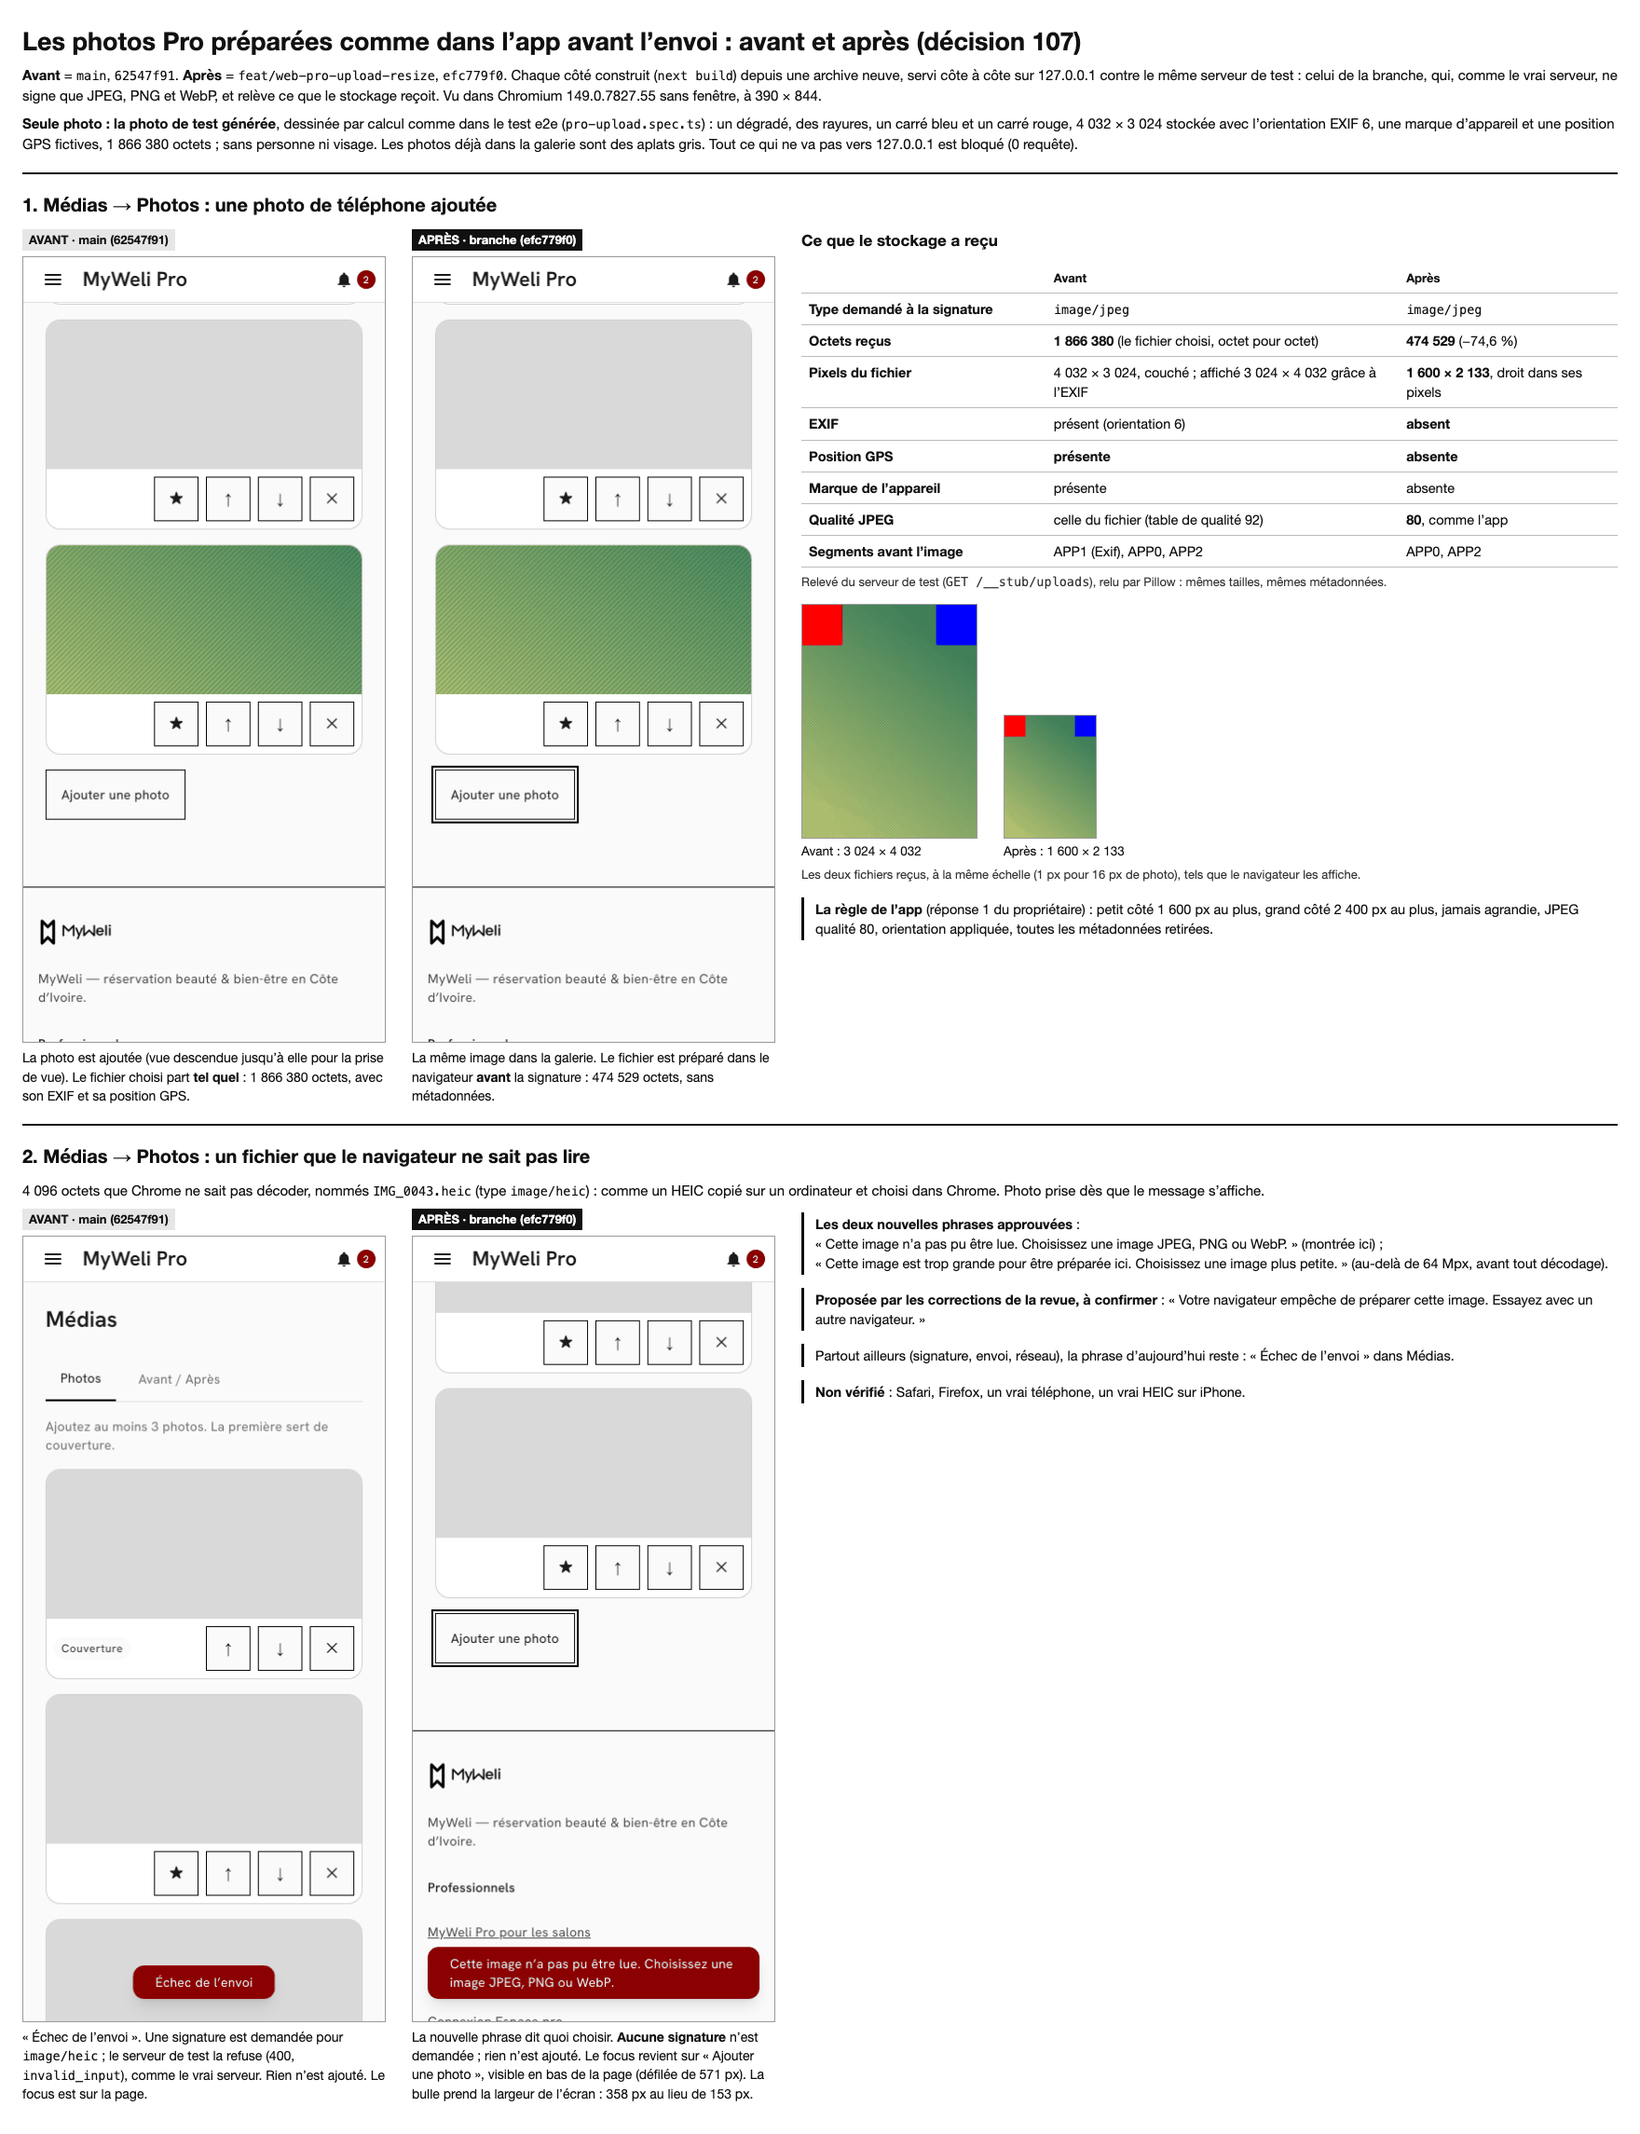
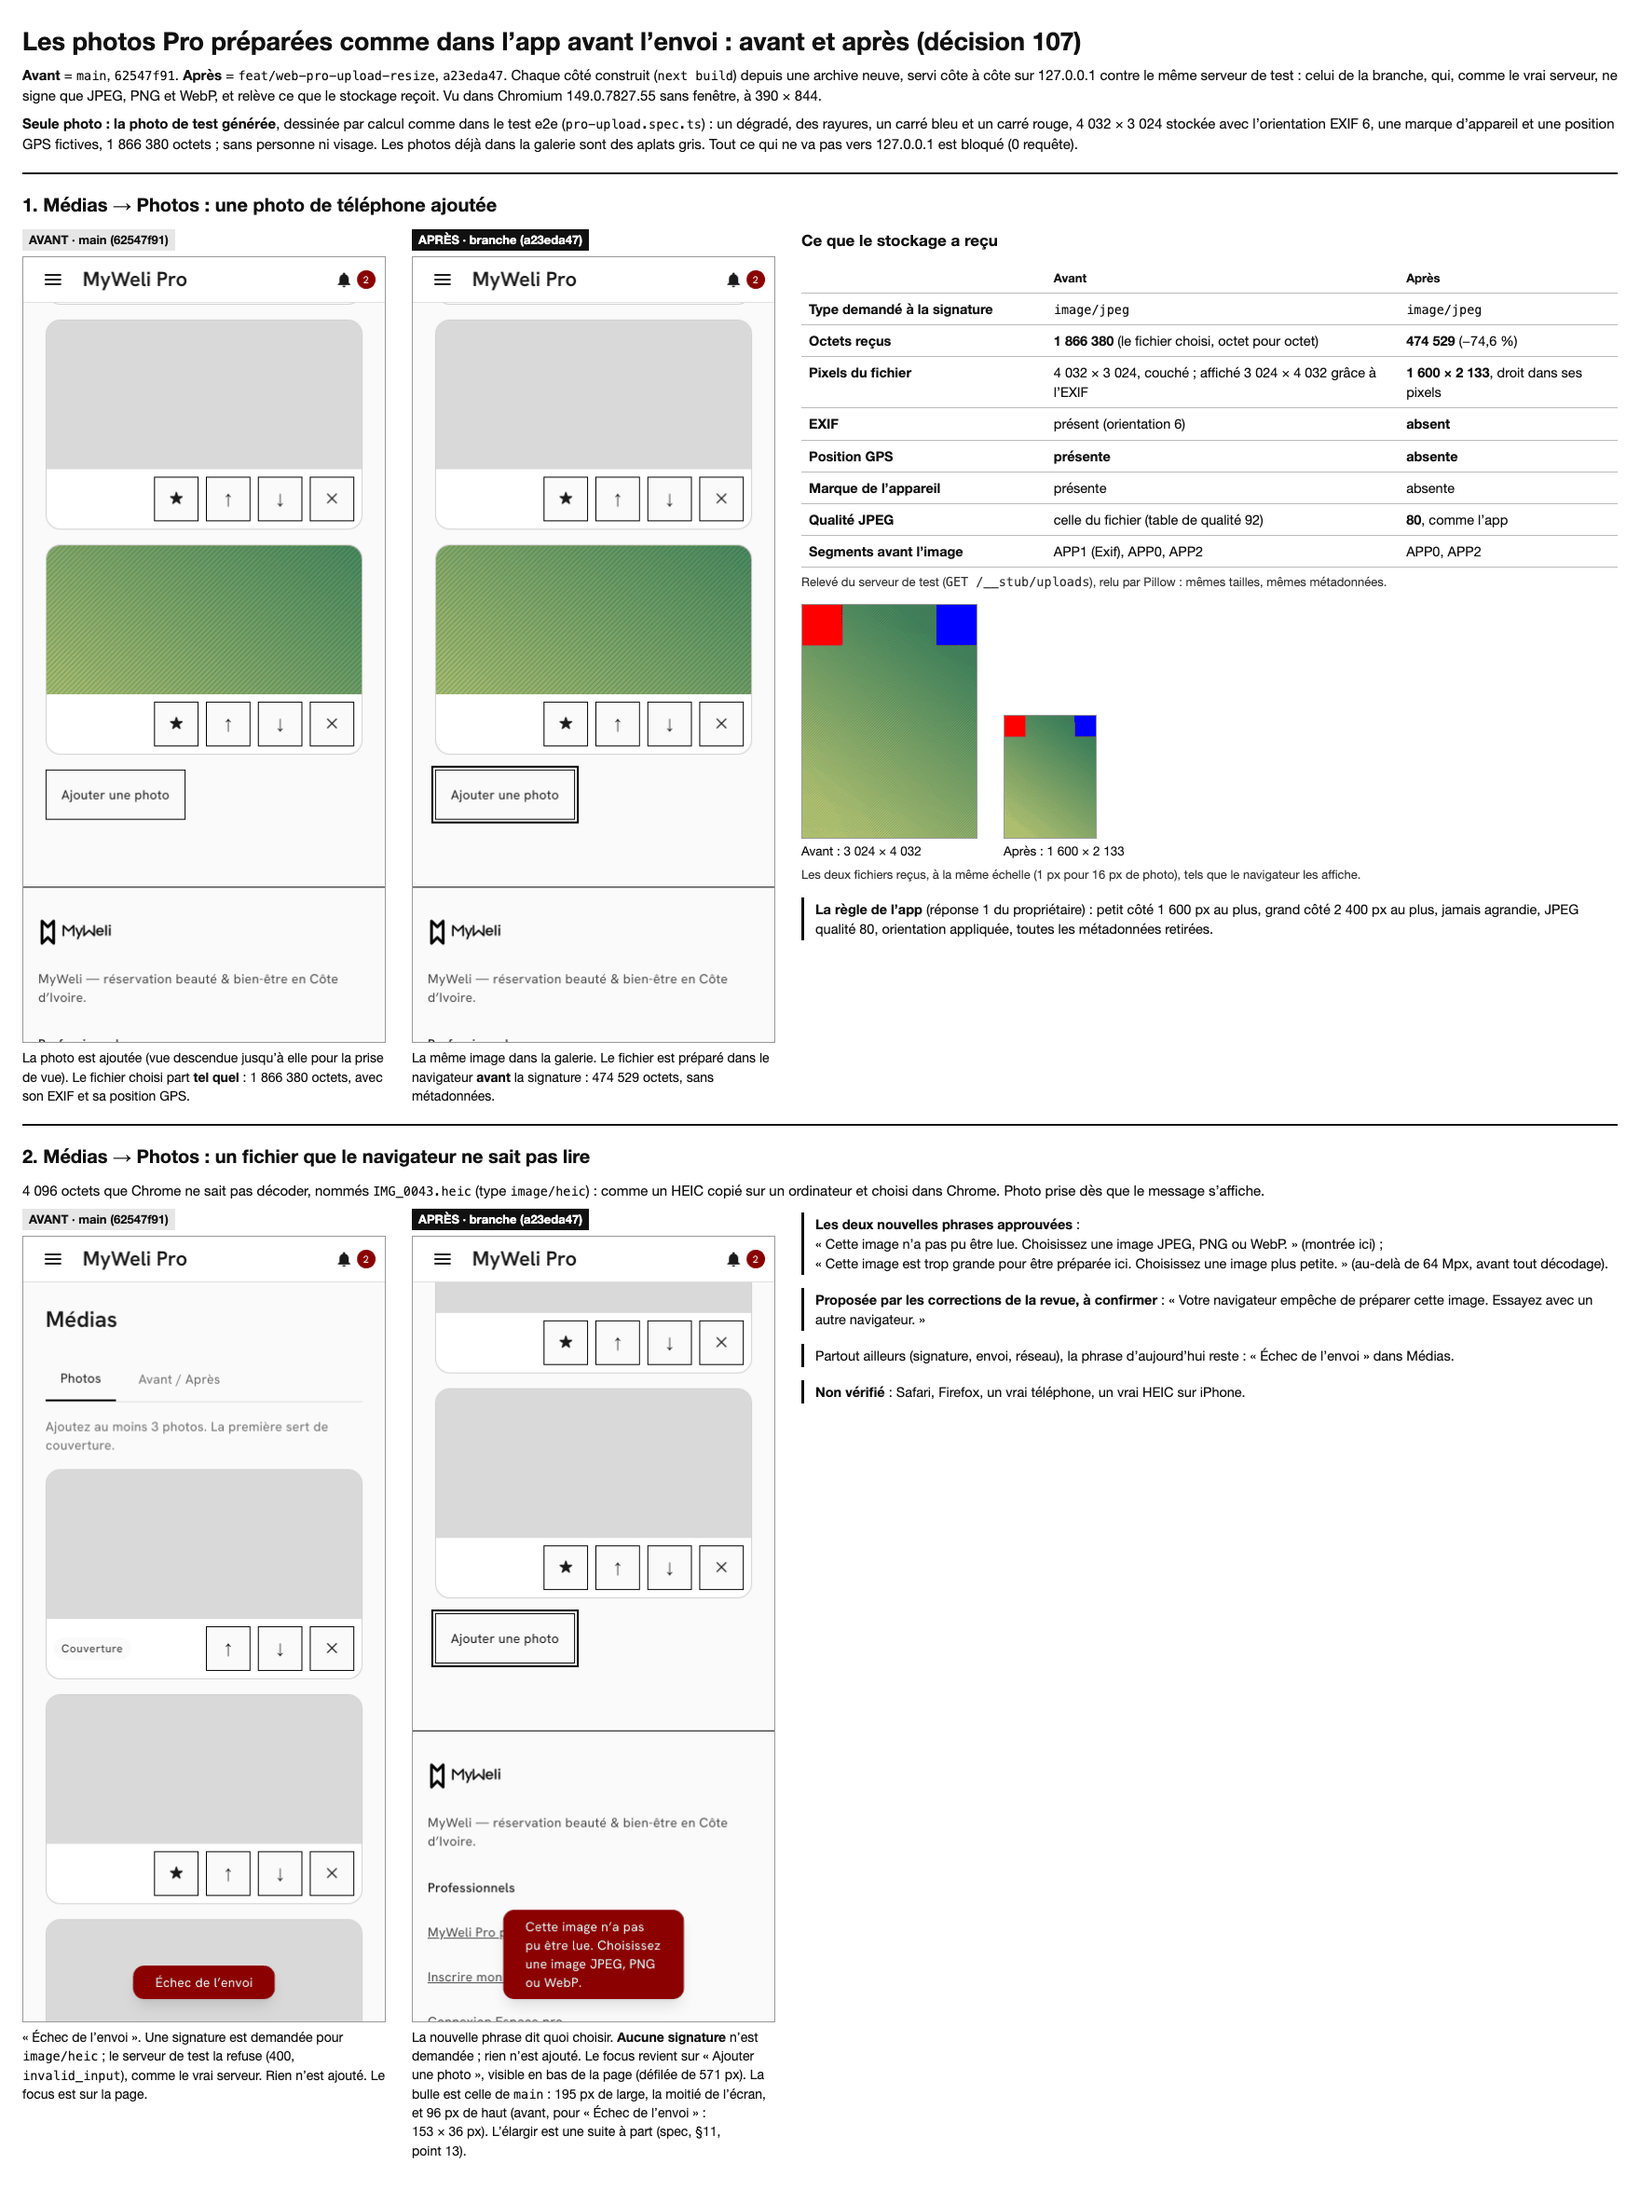
docs(web): decision 107's picture made again for a23eda47 — the toast on it is main's
docs/design/assets/web-pro-upload-resize.png (1760×2351, 247,980 bytes, a
254-colour PNG with no metadata chunk): main (62547f91) against the branch's
code at a23eda47, each a next build of a fresh git archive, served on
127.0.0.1 against the branch's stub, shot in Playwright's Chromium 149 at
390×844. Generated images and grey placeholders only.

What changed on the sheet: the « Après » panel of the unreadable file showed
dd5fcd6f's full-width toast (« 358 px au lieu de 153 px »), which a23eda47 took
out. Shot again, both sides carry main's toast classes (left-1/2 and a
translate, no inset-x-0, no max-w-xl), and the 72-character sentence wraps in
a pill 195 px wide — half the screen — and 96 px tall, against 153 × 36 px for
« Échec de l’envoi ». The caption says so and points to the follow-up (spec
§11 item 13). Still true and re-measured: the photo stored as 474,529 bytes,
1600×2133, no Exif, camera or GPS, quality 80 (the stub's reader and Pillow
agree); for the unreadable file no signature, nothing added, the focus back on
« Ajouter une photo ».

Every figure is read from the shoot's record and asserted before drawing,
including the toast classes and the half-screen width; a control that gave
the after toast dd5fcd6f's classes in a copy of the record stopped the sheet.
The PNG was opened and each figure checked against the record. Nothing was
aborted by the shoot's route and nothing reached the refusing proxy; the
[…]

diff --git a/docs/design/web-pro-upload-resize.md b/docs/design/web-pro-upload-resize.md
@@ -893,8 +893,8 @@ On `feat/web-pro-upload-resize`, from `origin/main` 62547f91: `0f3f3467` the spe
 the pipeline · `3ad93153` the Pro surfaces · `dd5fcd6f` the toast · `0e941eb8` the e2e · the spec
 and doc corrections · the record of §13.5 · the picture (§13.6). Then the split (§13.7):
 `a23eda47` reverts `dd5fcd6f` and the one e2e test that held only with it — the shared toast is
-`main`'s again (§11 item 13) · the docs brought to that, with the stored photos' count (§11,
-answer 3). Nothing pushed.
+`main`'s again (§11 item 13) · `9d721459` the docs brought to that, with the stored photos' count
+(§11, answer 3) · the picture made again against `a23eda47` (§13.6). Nothing pushed.
 
 ### 13.2 What ran, on `5c30f9b9` (OBSERVED)
 
@@ -1101,30 +1101,38 @@ re-run on `a23eda47`). The targeted unit set is now 186 tests and `pro-upload.sp
 
 ### 13.6 Picture (2026-11-09)
 
-One sheet, [a Pro photo on Médias, before and after](assets/web-pro-upload-resize.png) (1760×2290,
-244 KB, 253 colours, no metadata) — **made before the split, so it still shows `dd5fcd6f`'s
-full-width toast, which `a23eda47` took out (§13.7); to be regenerated for the branch as it now
-stands**: `main` (62547f91) against this branch at `efc779f0`, each a
-`next build` of a fresh `git archive`, served side by side on 127.0.0.1 against one stub — this
-branch's, which signs only JPEG, PNG and WebP as `upload_signing_service.dart` does and records what
-storage receives — in Playwright's Chromium 149.0.7827.55 at 390×844. Every other request was
-aborted (none was made), popups were blocked, and the Médias save was answered in the browser.
-Generated images only: the e2e's procedural photo (`sidewaysPhoto` 4032×3024 with
-`exifApp1({ orientation: 6 })`, 1,866,380 bytes) and flat grey placeholders for the seeded gallery.
+One sheet, [a Pro photo on Médias, before and after](assets/web-pro-upload-resize.png) (1760×2351,
+248 KB, 254 colours, no metadata chunk): `main` (62547f91) against this branch's code at `a23eda47`
+— the commit that took the shared toast change out (§13.7) —, each a `next build` of a fresh
+`git archive`, served side by side on 127.0.0.1 against one stub — this branch's, which signs only
+JPEG, PNG and WebP as `upload_signing_service.dart` does and records what storage receives — in
+Playwright's Chromium 149.0.7827.55 at 390×844. Every Node process ran with the lookup refusal of
+§13.7 (its control run before each build, the servers and the shoot; the builds' only refused
+names, `o1.ingest.sentry.io` ×6 each); the browser with the same three locks, plus the shoot's own
+abort route: nothing was aborted and nothing reached the refusing proxy; popups were blocked, and
+the Médias save was answered in the browser. Generated images only: the e2e's procedural photo
+(`sidewaysPhoto` 4032×3024 with `exifApp1({ orientation: 6 })`, 1,866,380 bytes) and flat grey
+placeholders for the seeded gallery. It replaces the sheet made at `efc779f0`, which showed
+`dd5fcd6f`'s full-width toast (358 px wide there).
 
 - **A phone photo added to « Photos ».** Before: storage received the picked file byte for byte —
   1,866,380 bytes, 4032×3024 stored (shown 3024×4032 through EXIF), Exif, the camera marker and the
   GPS IFD present, its own quality-92 table. After: 474,529 bytes (−74.6 %), 1600×2133 upright in
   its pixels, no Exif, camera or GPS, the IJG quality-80 table, APP0 and APP2 only. Read by the
-  stub's `inspectJpeg`, then again by Pillow.
+  stub's `inspectJpeg`, then again by Pillow (sizes, Exif, camera make, GPS IFD, and the luminance
+  table compared with the one Pillow's own encoder writes at quality 80 and 92 — all agree).
 - **A file the browser cannot read** (4,096 bytes Chromium cannot decode, named `IMG_0043.heic`,
   `image/heic`). Before: one sign asked for `image/heic`, refused (400, `invalid_input`),
   « Échec de l’envoi », the focus on `<body>`. After: no sign, `UPLOAD_UNREADABLE_MESSAGE`, the focus
-  back on « Ajouter une photo », the toast's pill 358 px wide against 153 px at `efc779f0` — the
-  width `dd5fcd6f` gave it, no longer on this branch since `a23eda47`.
-- Every figure on the sheet is read from the shoot's record and asserted before the sheet is drawn;
-  the PNG was opened and checked against that record and against the e2e's own assertions (1600×2133,
-  no metadata, quality 80).
+  back on « Ajouter une photo ». **The toast is `main`'s on both sides** (the same region and pill
+  classes: `left-1/2 -translate-x-1/2`, no `inset-x-0`, no `max-w-xl`), so the 72-character
+  sentence wraps in a pill **195 px wide — half the 390 px screen — and 96 px tall**, where
+  « Échec de l’envoi » takes 153 × 36 px: §2.7's residual, seen at 390 px with normal text (§11
+  item 13).
+- Every figure on the sheet is read from the shoot's record and asserted before the sheet is drawn
+  — among them that both toasts carry `main`'s classes and that the after pill is half the screen
+  wide; a control gave the after toast `dd5fcd6f`'s classes in a copy of the record, and the sheet
+  refused to draw. The PNG was opened and each figure checked against the record.
 
 ### 13.7 The split (2026-11-09): the shared toast change leaves this PR
 
